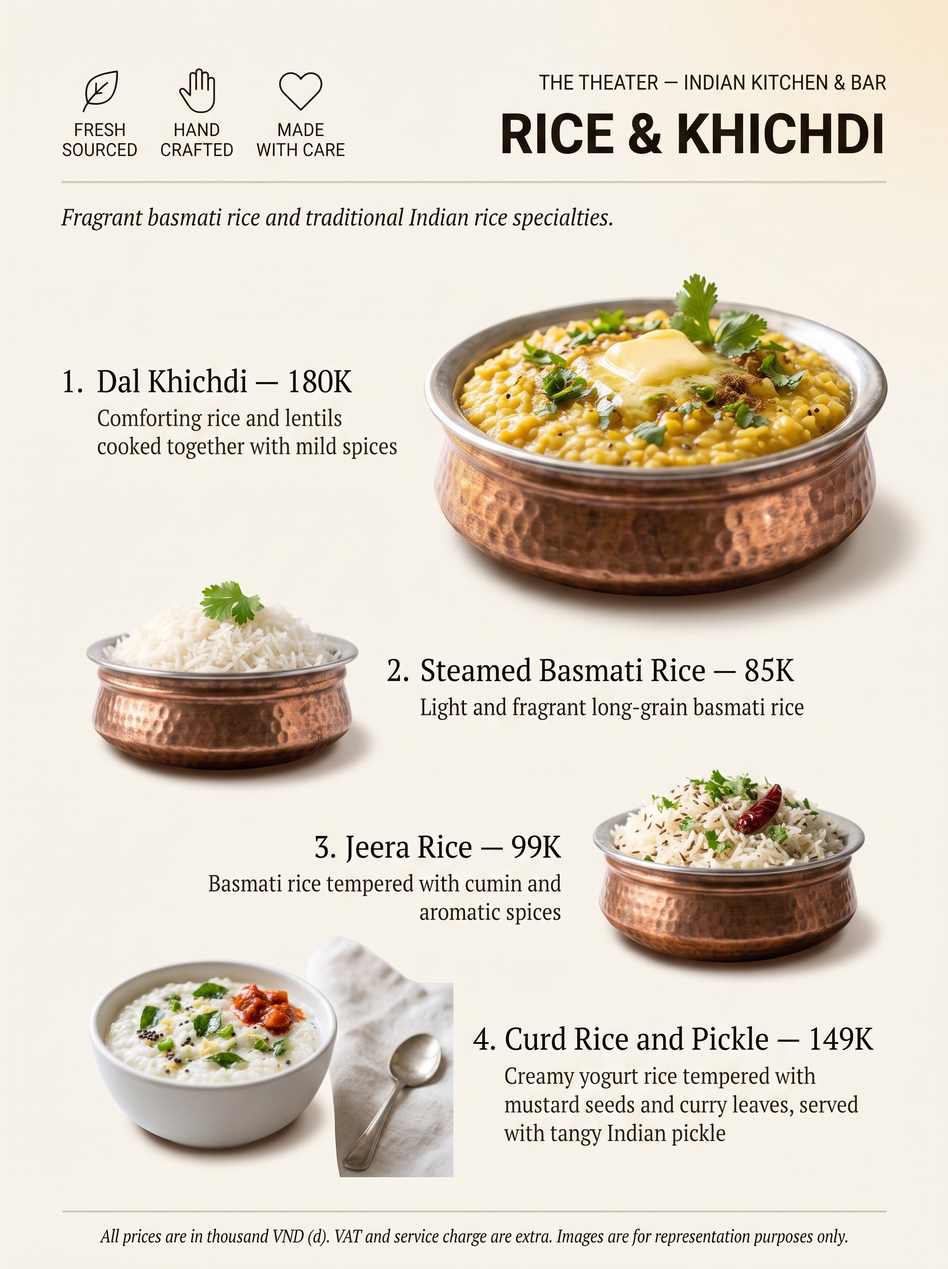
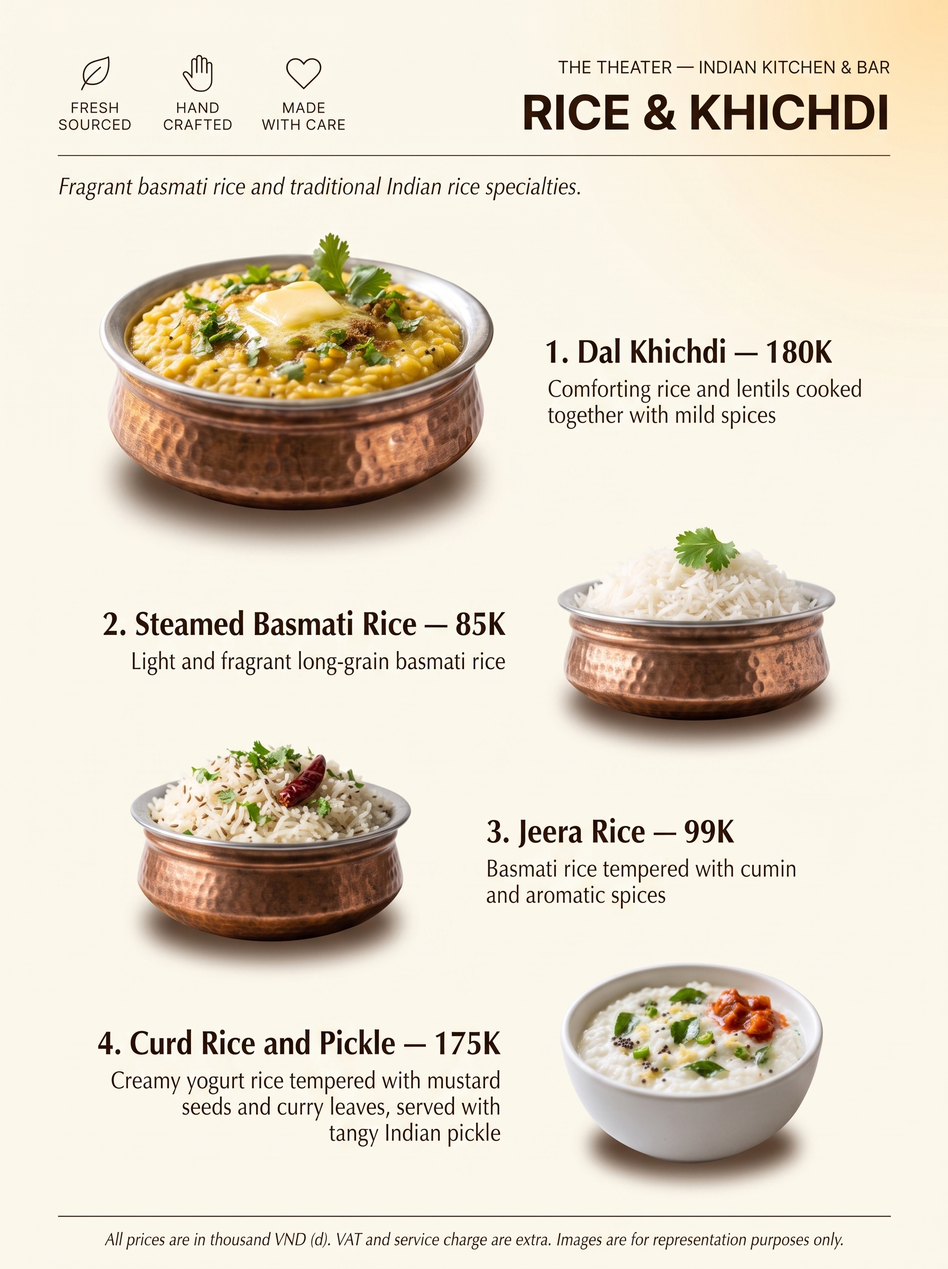
Update Curd Rice and Pickle price to 175K

diff --git a/theater-menu-photography/build_menu_items.py b/theater-menu-photography/build_menu_items.py
@@ -323,7 +323,7 @@ items += [
          "Fluffy separate long-grain white basmati rice mounded gently, finished with a single fresh cilantro leaf."),
     item("Jeera Rice", 99, "basmati rice tempered with cumin and aromatic spices", cat, "copper_handi_rice",
          "Fluffy basmati rice flecked with visible toasted cumin seeds, finished with a dried red chilli and fresh cilantro."),
-    item("Curd Rice and Pickle", 149, "creamy yogurt rice tempered with mustard seeds and curry leaves, served with tangy Indian pickle", cat, "small_white_bowl",
+    item("Curd Rice and Pickle", 175, "creamy yogurt rice tempered with mustard seeds and curry leaves, served with tangy Indian pickle", cat, "small_white_bowl",
          "Smooth, creamy white curd rice studded with a mustard seed and curry leaf tempering, a small dollop of vivid red-orange mixed pickle on the side, garnished with a few curry leaves."),
 ]
 
